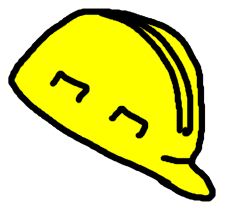
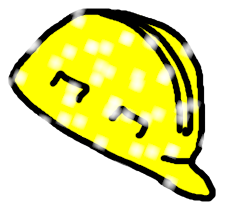
Added more hat images
All the images show up depending on the weather condition

diff --git a/weatherhat.py b/weatherhat.py
@@ -41,7 +41,7 @@ class WeatherHat:
         self.submit_button.place(relheight=1, relx=0.66, relwidth=0.2)
 
         # Frame to display information
-        self.frame_display = tk.Frame(self.master)
+        self.frame_display = tk.Frame(self.master, bg='#000050')
         self.frame_display.place(relx=0.01, rely=0.25, relheight=0.7, relwidth=0.98)
 
         # Scroll bar for scrolling list box
@@ -56,14 +56,14 @@ class WeatherHat:
         self.scroll_bar.config(command=self.search_results.yview)
 
         # Frame that holds weather info widgets
-        self.cap_info = tk.Frame(self.frame_display)
+        self.cap_info = tk.Frame(self.frame_display, bg='#000050')
         self.cap_info.place(relheight=0.98, relwidth=0.3, relx=0.69, rely=0.01)
 
         # Default placeholder image
         self.img_var = ImageTk.PhotoImage(Image.open("images/default_hat.png"))
 
         # Cap info image canvas
-        self.cap_img = tk.Label(self.cap_info)
+        self.cap_img = tk.Label(self.cap_info, bg='#000050')
         self.cap_img.place(relheight=0.5, relwidth=0.98, relx=0.01, rely=0.01)
 
         # Cap info message
@@ -98,31 +98,31 @@ class WeatherHat:
         """
         if abbr == 'sn':
             self.weather_var.set("It is snowing. You need a snow hat!")
-            self.update_hat_img("images/snow_hat.png")
+            self.update_hat_img("images/snow_hat_heavy_snow.png")
             return
         if abbr == 'sl':
             self.weather_var.set("There is sleet. You need a light snow hat!")
-            self.update_hat_img("images/snow_hat.png")
+            self.update_hat_img("images/snow_hat_light_snow.png")
             return
         if abbr == 'h':
             self.weather_var.set("There is hail. You need a hard hat!")
             self.update_hat_img("images/hard_hat.png")
             return
         if abbr == 't':
-            self.weather_var.set("There is thunderstorm. You need a hat without metal!")
-            self.update_hat_img("images/brim_hat.png")
+            self.weather_var.set("There is a thunderstorm. You need a hat without metal!")
+            self.update_hat_img("images/brim_hat_no_metal.png")
             return
         if abbr == 'hr':
-            self.weather_var.set("It is raining heavy. You need a waterproof hat with a brim!")
-            self.update_hat_img("images/brim_hat.png")
+            self.weather_var.set("It is heavily raining. You need a waterproof hat with a brim!")
+            self.update_hat_img("images/brim_hat_heavy_rain.png")
             return
         if abbr == 'lr':
-            self.weather_var.set("It is light rain. You need a hat with a brim!")
-            self.update_hat_img("images/brim_hat.png")
+            self.weather_var.set("It is lightly raining. You need a hat with a brim!")
+            self.update_hat_img("images/brim_hat_light_rain.png")
             return
         if abbr == 's':
             self.weather_var.set("It is showering. You need a hat with a brim!")
-            self.update_hat_img("images/brim_hat.png")
+            self.update_hat_img("images/brim_hat_light_rain.png")
             return
         if abbr == 'hc':
             self.weather_var.set("It is heavy cloudy. You can wear any hat!")
@@ -133,7 +133,7 @@ class WeatherHat:
             self.update_hat_img("images/brim_hat.png")
             return
         if abbr == 'c':
-            self.weather_var.set("It is clear! You might need a hat with a brim!")
+            self.weather_var.set("It is clear. You can wear any hat!")
             self.update_hat_img("images/brim_hat.png")
             return
         else:
